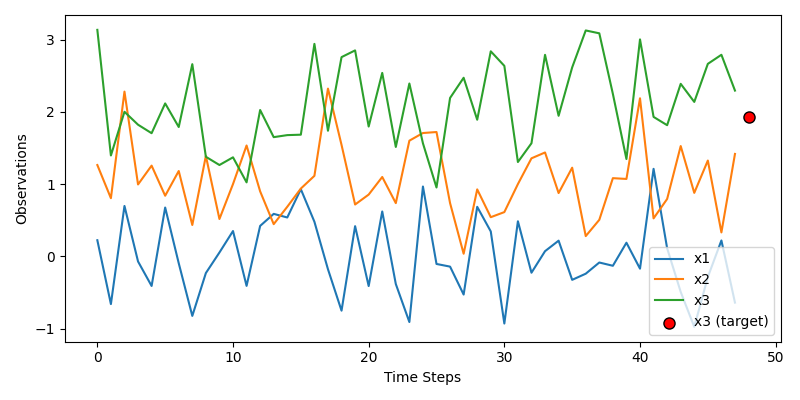
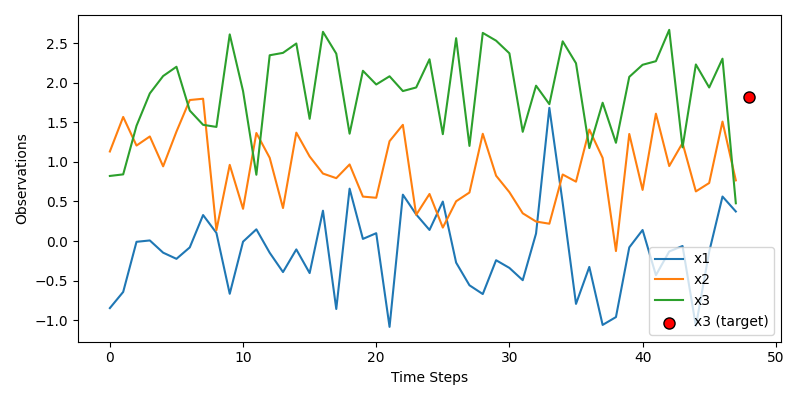
updates README

diff --git a/README.md b/README.md
@@ -10,10 +10,10 @@
 
 1.  [About The Project](#about-the-project)
 2.  [Usage](#usage)
-    1.  [Example Data](#org7c75667)
-    2.  [Single-Step Prediction](#orgd939b15)
-    3.  [Multi-Step Prediction](#org55070f1)
-    4.  [Add Meta data as features](#org876f56c)
+    1.  [Example Data](#org62ac303)
+    2.  [Single-Step Prediction](#org5c0e42d)
+    3.  [Multi-Step Prediction](#org31a5c64)
+    4.  [Add Meta data as features](#org1c91d16)
 3.  [Contributing](#contributing)
 4.  [License](#license)
 5.  [Contact](#contact)
@@ -32,7 +32,7 @@ This python packages should help you to create TensorFlow datasets for time-seri
 # Usage
 
 
-<a id="org7c75667"></a>
+<a id="org62ac303"></a>
 
 ## Example Data
 
@@ -62,14 +62,14 @@ Suppose you have a dataset in the following form:
     test_df.head()
 
                                x1        x2        x3
-    1992-01-01 00:00:00  0.075585  1.494057  2.218411
-    1992-01-01 00:30:00  0.002626  0.894208  2.039533
-    1992-01-01 01:00:00  0.046454  0.529587  2.066533
-    1992-01-01 01:30:00  0.320631  1.071333  1.986123
-    1992-01-01 02:00:00 -0.540393  1.085246  2.805066
+    1992-01-01 00:00:00  0.258083  0.902987  1.617639
+    1992-01-01 00:30:00  0.203509  1.414581  1.771407
+    1992-01-01 01:00:00  0.013242  1.774091  2.686694
+    1992-01-01 01:30:00  0.351366  1.142042  1.304276
+    1992-01-01 02:00:00  0.158146 -0.222801  2.538896
 
 
-<a id="orgd939b15"></a>
+<a id="org5c0e42d"></a>
 
 ## Single-Step Prediction
 
@@ -109,7 +109,7 @@ We can plot the result with the utility function `plot_path`:
 ![img](.images/example1.png)
 
 
-<a id="org55070f1"></a>
+<a id="org31a5c64"></a>
 
 ## Multi-Step Prediction
 
@@ -141,7 +141,7 @@ Again, lets plot the results to see what changed:
 ![img](.images/example2.png)
 
 
-<a id="org876f56c"></a>
+<a id="org1c91d16"></a>
 
 ## Add Meta data as features
 
@@ -168,6 +168,8 @@ this module contains the factory class `WindowedTimeSeriesDatasetFactory` to cre
     ds3
 
 This returns the following TensorFlow Dataset:
+
+    <PrefetchDataset shapes: (((4, 48, 3), (4, 1, 8)), (4, 6, 1)), types: ((tf.float32, tf.float32), tf.float32)>
 
 Again, lets plot the results to see what changed:
 
